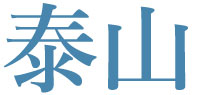
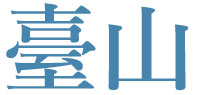
now we have the last chinese characters

diff --git a/src/cuisines/index.html b/src/cuisines/index.html
@@ -42,9 +42,7 @@
             <div class="region-map"><img src="../assets/graphics/china0211_map_GR_online_TINY_NO_<%=region.Region.replace(/ /g,'').replace('&nbsp;','').split('(')[0].toUpperCase()%>.jpg"></img></div>
             <div class="region-hed <%=region.Region%>">
               <div class="chinese-region-hed">
-                <% if (region.Region != "Toisan"){ %>
                   <img src="../assets/characters/chinesecharacters_BRUSH_PLAIN_<%=region.Region.replace(/ /g,'').replace('&nbsp;','').split('(')[0].toUpperCase()%>.jpg?"></img>
-                <% } %>
               </div>
               <%=region.Region%>
             </div>
